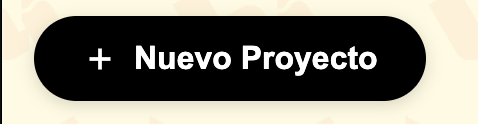
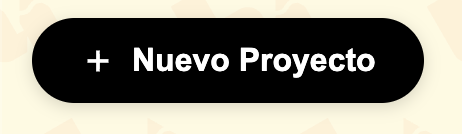
Help page updates

diff --git a/src/components/manual/HelpList/UsingDesigner.tsx b/src/components/manual/HelpList/UsingDesigner.tsx
@@ -1,4 +1,5 @@
 import React from 'react'
+import ExportImage from './ExportImage'
 
 type Props = {}
 
@@ -6,26 +7,51 @@ const UsingDesigner = (props: Props) => {
   return (
     <>
         <h1>Usando la herramienta de diseño</h1>
-        <p>Esta sección te guiará a través de las características y funcionalidades de la herramienta de diseño.</p>
-        <h2>Interfaz de Usuario</h2>
-        <p>La herramienta de diseño cuenta con una interfaz intuitiva que facilita la creación y edición de tus proyectos.</p>
+        <p>Guía rápida sobre las herramientas para crear, seleccionar y editar elementos en tu proyecto.</p>
+        <h2>Interfaz</h2>
+        <p>La pantalla se divide en un área de trabajo (lienzo), una barra superior con herramientas y un panel lateral con capas y propiedades.</p>
         <img src="/images/help/design1.png" alt="Designer Interface" style={{width: '100%', maxWidth: '600px', marginTop: '10px', marginBottom: '10px'}} />
-        <h2>Herramientas Principales</h2>
-        <p>Explora las herramientas principales disponibles en la barra lateral para agregar elementos, ajustar propiedades y más.</p>
+        <h2>Herramientas principales</h2>
+        <p>La mayoría de acciones se realizan desde la barra superior (herramientas) y el panel derecho (capas y propiedades).</p>
         <img src="/images/help/design2.png" alt="Designer Tools" style={{width: '100%', maxWidth: '600px', marginTop: '10px', marginBottom: '10px'}} />
-        <p>Entre ellas tenemos las herramientas de selección, formas, texto, agrupar, desagrupar y eliminar.</p>
+
+        <h3>Barra superior (herramientas)</h3>
+        <ul>
+          <li><strong>Seleccionar:</strong> selecciona elementos para moverlos, cambiar su tamaño o rotarlos. Si mantienes <strong>Shift</strong> puedes seleccionar varios.</li>
+          <li><strong>Mano:</strong> sirve para mover la vista (pan). Con esta herramienta activa, arrastra el lienzo para desplazarte.</li>
+          <li><strong>Rectángulo / Círculo / Triángulo / Estrella:</strong> inserta una forma en el centro del lienzo. Después puedes modificar color y tamaño.</li>
+          <li><strong>Texto:</strong> inserta un texto. El contenido y el tamaño de fuente se editan desde el panel de propiedades.</li>
+          <li><strong>Agrupar:</strong> combina varios elementos en un grupo.</li>
+          <li><strong>Desagrupar:</strong> separa un grupo en elementos individuales.</li>
+          <li><strong>Eliminar:</strong> borra el/los elementos seleccionados.</li>
+          <li><strong>Export:</strong> guarda el lienzo como imagen (PNG).</li>
+        </ul>
+
+        <h3>Panel derecho (Layers / Properties)</h3>
+        <img src="/images/help/design8.png" alt="Layers" style={{width: '100%', maxWidth: '600px', marginTop: '10px', marginBottom: '10px'}} />
+        <img src="/images/help/design9.png" alt="Properties" style={{width: '100%', maxWidth: '600px', marginTop: '10px', marginBottom: '10px'}} />
+        <ul>
+          <li><strong>Layers:</strong> lista de elementos del proyecto. Puedes seleccionar desde aquí y reordenar capas arrastrando (en elementos de nivel superior).</li>
+          <li><strong>Mostrar/Ocultar:</strong> el icono del ojo permite ocultar temporalmente un elemento (no se exporta si está oculto).</li>
+          <li><strong>Renombrar:</strong> haz doble clic sobre el nombre de una capa para editarlo.</li>
+          <li><strong>Properties:</strong> muestra opciones del elemento seleccionado (por ejemplo: <strong>Fill Color</strong>, <strong>Corner Radius</strong> en algunas formas, o <strong>Content</strong> y <strong>Font Size</strong> en texto).</li>
+        </ul>
+
+        <h3>Navegación y selección</h3>
+        <ul>
+          <li><strong>Zoom:</strong> usa la rueda del ratón/trackpad sobre el lienzo para acercar o alejar.</li>
+          <li><strong>Selección “inteligente” en grupos:</strong> si hacens clic sobre un elemento dentro de un grupo, primero se selecciona el grupo. Vuelve a hacer clic para seleccionar el elemento interno.</li>
+        </ul>
+
         <h2>Agrupar objetos</h2>
-        <p>Para agrupar objetos, tenemos que tener un minimo de 2 objetos seleccionados, esto se puede hacer manteniendo presionada la tecla Shift mientras haces clic en los objetos que deseas agrupar.</p>
+        <p>Selecciona al menos dos objetos (mantén pulsada la tecla Shift mientras haces clic) y pulsa el icono "Agrupar" en la barra superior.</p>
+        <p><strong>Nota:</strong> actualmente el agrupado funciona mejor con elementos que están al mismo nivel (no dentro de otros grupos).</p>
         <img src="/images/help/design3.png" alt="Objects" style={{width: '100%', maxWidth: '600px', marginTop: '10px', marginBottom: '10px'}} />
-        <p>Luego pulsamos el icono de agrupar en la barra de herramientas.</p>
         <img src="/images/help/design4.png" alt="Group objects button" style={{width: '100%', maxWidth: '600px', marginTop: '10px', marginBottom: '10px'}} />
-        <p>Podemos observar los objetos agrupados como un solo elemento.</p>
-        <img src="/images/help/design5.png" alt="Objects in group" style={{width: '100%', maxWidth: '600px', marginTop: '10px', marginBottom: '10px'}} />
         <h2>Desagrupar objetos</h2>
-        <p>Para desagrupar, selecciona el grupo y haz clic en el icono de desagrupar en la barra de herramientas.</p>
+        <p>Selecciona un grupo y pulsa el icono "Desagrupar" para volver a editar cada objeto por separado.</p>
         <img src="/images/help/design6.png" alt="Ungroup Objects" style={{width: '100%', maxWidth: '600px', marginTop: '10px', marginBottom: '10px'}} />
-        <p>Los objetos volverán a ser elementos individuales que puedes mover y editar por separado.</p>
-        <img src="/images/help/design7.png" alt="Objects Ungrouped" style={{width: '100%', maxWidth: '600px', marginTop: '10px', marginBottom: '10px'}} />
+        <ExportImage />
     </>
   )
 }

diff --git a/src/components/manual/HelpList/AccountSetup.tsx b/src/components/manual/HelpList/AccountSetup.tsx
@@ -5,16 +5,16 @@ type Props = {}
 const AccountSetup = (props: Props) => {
   return (
     <>
-        <h1>Configuración de la Cuenta</h1>
-        <p>Esta sección te guiará a través de la configuración de tu cuenta, el inicio de sesión y la restauración de tu contraseña.</p>
-        <h2>Creando una Cuenta</h2>
-        <p>Para crear una cuenta, haz clic en el botón "Registrarse" en el menú de Inicio de Sesión, ubicado en la parte inferior de la pantalla.</p>
+        <h1>Configuración de la cuenta</h1>
+        <p>Instrucciones para crear una cuenta, iniciar sesión y recuperar la contraseña.</p>
+        <h2>Crear una cuenta</h2>
+        <p>Pulsa "Registrarse" en la pantalla de inicio, rellena nombre, correo y contraseña y confirma con "Register".</p>
         <img src="/images/help/register1.png" alt="Account Setup Step 1" style={{width: '100%', maxWidth: '600px', marginTop: '10px', marginBottom: '10px'}} />
-        <p>Completa los detalles requeridos como nombre de usuario, correo electrónico y contraseña, luego haz clic en "Register" para crear tu cuenta.</p>
+        <p>Recibirás un correo de verificación; haz clic en el enlace del correo para finalizar el registro.</p>
         <img src="/images/help/register2.png" alt="Account Setup Step 2" style={{width: '100%', maxWidth: '600px', marginTop: '10px', marginBottom: '10px'}} />
-        <p>Después de esto recibirás un correo electrónico solicitando verificar tu dirección de correo electrónico. Haz clic en el enlace del correo para completar tu registro.</p>
-        <h2>Iniciando Sesión</h2>
-        <p>Para iniciar sesión, ingresa tu nombre de usuario y contraseña en los campos proporcionados en la pantalla de inicio de sesión y haz clic en "Login".</p>
+        <img src="/images/help/register3.png" alt="Account Setup Step 3" style={{width: '100%', maxWidth: '600px', marginTop: '10px', marginBottom: '10px'}} />
+        <h2>Iniciar sesión</h2>
+        <p>Introduce tu usuario y contraseña y pulsa "Login". Si olvidaste la contraseña, usa la opción de recuperación y sigue las instrucciones del correo.</p>
         <img src="/images/help/login.png" alt="Login Screen" style={{width: '100%', maxWidth: '600px', marginTop: '10px', marginBottom: '10px'}} />
     </>
   )

diff --git a/src/components/manual/HelpList/ExportImage.tsx b/src/components/manual/HelpList/ExportImage.tsx
@@ -5,12 +5,14 @@ type Props = {}
 const ExportImage = (props: Props) => {
   return (
     <>
-        <h1>Exportando tu trabajo</h1>
-        <p>Esta sección te guiará a través del proceso de exportación de tus diseños como imágenes.</p>
-        <h2>Acceder a la opción de exportación</h2>
-        <p>Para exportar tu diseño, primero debes acceder al menú de exportación. Esto se puede hacer haciendo clic en el botón "Exportar" ubicado en la esquina superior derecha de la interfaz.</p>
+        <h1>Exportar tu diseño</h1>
+        <p>Guarda tu proyecto como imagen PNG para compartirlo o usarlo fuera de la aplicación.</p>
+        <h2>Exportar como PNG</h2>
+        <p>Haz clic en el botón "Export" en la barra superior. Se descargará un archivo PNG del lienzo.</p>
         <img src="/images/help/export1.png" alt="Export Button" style={{width: '100%', maxWidth: '600px', marginTop: '10px', marginBottom: '10px'}} />
-        <p>Una vez que hayas hecho clic en el botón de exportación, se te presentará un menu donde tienes que elegir el nombre y donde quieres guardar el fichero, se guardara la imagen en formato PNG.</p>
+        <p>El nombre por defecto del archivo es <strong>design.png</strong>. Si necesitas otro nombre, puedes renombrarlo después de la descarga.</p>
+        <p><strong>Consejo:</strong> solo se exportan los elementos visibles. Si quieres excluir algo, ocúltalo desde <strong>Layers</strong> antes de exportar.</p>
+        <p>El zoom o el desplazamiento de la vista no afectan al resultado final: la exportación se genera a tamaño real del lienzo.</p>
         <img src="/images/help/export2.png" alt="Select Image Format" style={{width: '100%', maxWidth: '600px', marginTop: '10px', marginBottom: '10px'}} />
     </>
   )

diff --git a/src/components/manual/Manual.tsx b/src/components/manual/Manual.tsx
@@ -22,7 +22,6 @@ const Manual = (props: Props) => {
                 <li onClick={() => setActiveTab("AccountSetup")}>Configuración de la Cuenta</li>
                 <li onClick={() => setActiveTab("CreateProject")}>Creando un Proyecto</li>
                 <li onClick={() => setActiveTab("UsingDesigner")}>Usando la Herramienta de Diseño</li>
-                <li onClick={() => setActiveTab("ExportImage")}>Exportando tu Trabajo</li>
                 {/*
                 <li>Atajos y Consejos</li>
                 <li>Solución de Problemas</li>
@@ -38,7 +37,6 @@ const Manual = (props: Props) => {
             {activeTab === "AccountSetup" && <AccountSetup />}
             {activeTab === "CreateProject" && <CreateProject />}
             {activeTab === "UsingDesigner" && <UsingDesigner />}
-            {activeTab === "ExportImage" && <ExportImage />}
         </div>
     </div>
   )

diff --git a/src/components/manual/HelpList/GettingStarted.tsx b/src/components/manual/HelpList/GettingStarted.tsx
@@ -1,14 +1,13 @@
 import React from 'react'
-import Manual from '../Manual';
 
 type Props = {}
 
 const GettingStarted = (props: Props) => {
   return (
     <>
-        <h1>Bienvenidos al Manual</h1>
-        <p>Este manual está diseñado para ayudarte a navegar y utilizar todas las funciones de nuestra aplicación de manera efectiva. Ya seas un principiante o un usuario experimentado, encontrarás información valiosa aquí.</p>
-        <p>Para comenzar, haz clic en cualquiera de los temas a la izquierda.</p>
+        <h1>Bienvenido al manual</h1>
+        <p>Esta guía rápida te ayudará a encontrar y usar las funciones principales de la aplicación.</p>
+        <p>Para empezar, selecciona un tema en el menú de la izquierda.</p>
     </>
   )
 }
